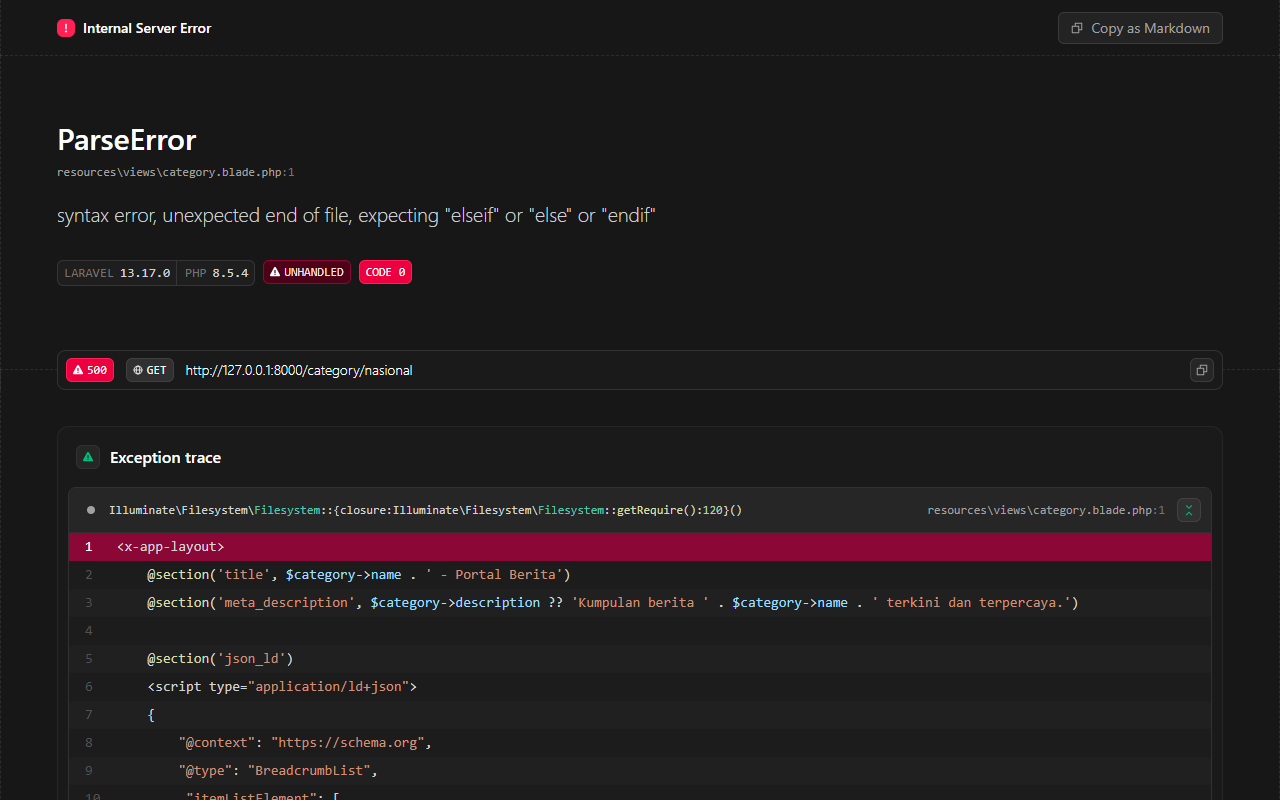
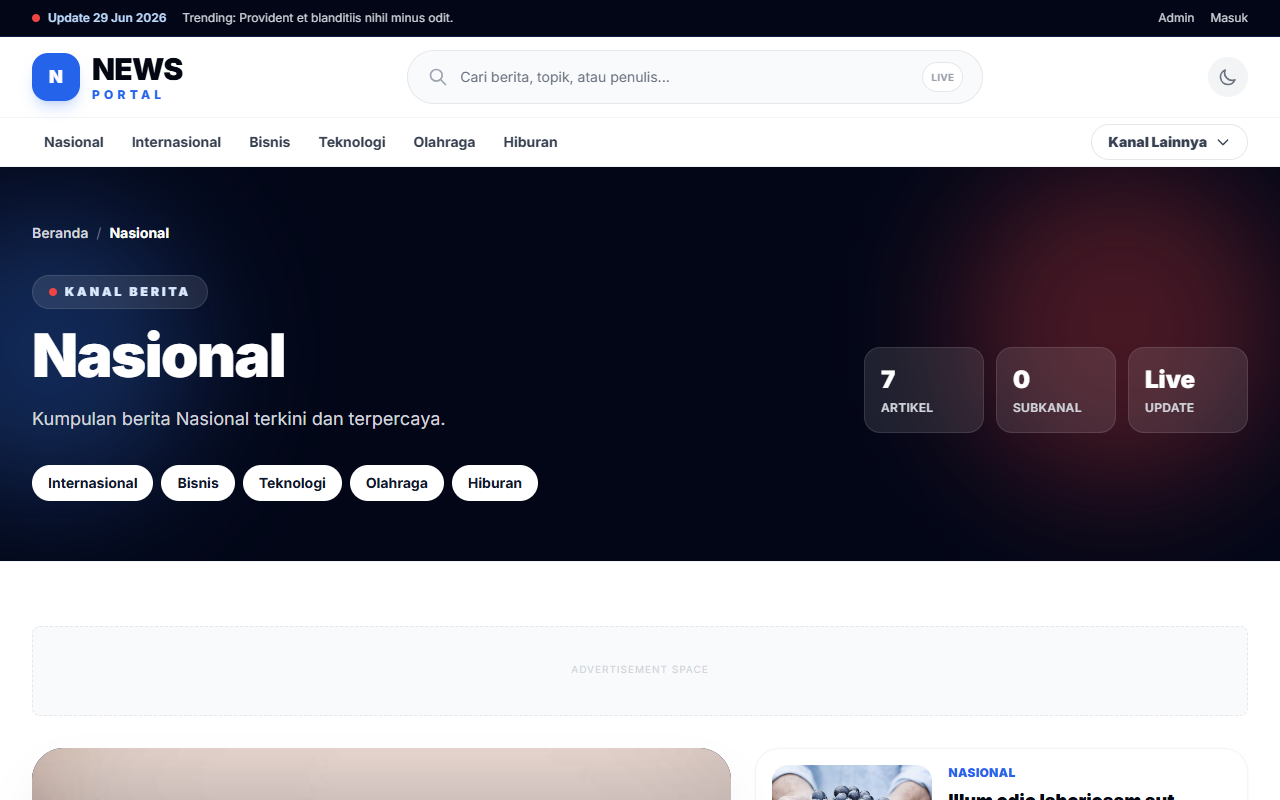
fix: resolve category page parse error and customize login/register views

diff --git a/resources/views/auth/register.blade.php b/resources/views/auth/register.blade.php
@@ -1,52 +1,89 @@
 <x-guest-layout>
-    <form method="POST" action="{{ route('register') }}">
+    <!-- Header -->
+    <div class="mb-8 text-center sm:text-left">
+        <h2 class="text-3xl font-black text-gray-900 dark:text-white tracking-tight">Daftar Akun</h2>
+        <p class="text-sm text-gray-500 dark:text-gray-400 mt-2">Buat akun Anda untuk mulai menyimpan artikel, berdiskusi, dan menerima newsletter terbaru.</p>
+    </div>
+
+    <form method="POST" action="{{ route('register') }}" class="space-y-5">
         @csrf
 
         <!-- Name -->
         <div>
-            <x-input-label for="name" :value="__('Name')" />
-            <x-text-input id="name" class="block mt-1 w-full" type="text" name="name" :value="old('name')" required autofocus autocomplete="name" />
-            <x-input-error :messages="$errors->get('name')" class="mt-2" />
+            <label for="name" class="block text-xs font-bold uppercase tracking-wider text-gray-700 dark:text-gray-300">Nama Lengkap</label>
+            <div class="mt-2 relative rounded-xl shadow-sm">
+                <input id="name" 
+                       class="block w-full px-4 py-3 bg-gray-50 dark:bg-gray-800 border border-gray-200 dark:border-gray-700 rounded-xl text-sm focus:outline-none focus:ring-2 focus:ring-blue-500 focus:border-transparent dark:text-white transition-all" 
+                       type="text" 
+                       name="name" 
+                       :value="old('name')" 
+                       required 
+                       autofocus 
+                       placeholder="Nama Lengkap Anda"
+                       autocomplete="name" />
+            </div>
+            <x-input-error :messages="$errors->get('name')" class="mt-2 text-xs text-red-500" />
         </div>
 
         <!-- Email Address -->
-        <div class="mt-4">
-            <x-input-label for="email" :value="__('Email')" />
-            <x-text-input id="email" class="block mt-1 w-full" type="email" name="email" :value="old('email')" required autocomplete="username" />
-            <x-input-error :messages="$errors->get('email')" class="mt-2" />
+        <div>
+            <label for="email" class="block text-xs font-bold uppercase tracking-wider text-gray-700 dark:text-gray-300">Alamat Email</label>
+            <div class="mt-2 relative rounded-xl shadow-sm">
+                <input id="email" 
+                       class="block w-full px-4 py-3 bg-gray-50 dark:bg-gray-800 border border-gray-200 dark:border-gray-700 rounded-xl text-sm focus:outline-none focus:ring-2 focus:ring-blue-500 focus:border-transparent dark:text-white transition-all" 
+                       type="email" 
+                       name="email" 
+                       :value="old('email')" 
+                       required 
+                       placeholder="nama@email.com"
+                       autocomplete="username" />
+            </div>
+            <x-input-error :messages="$errors->get('email')" class="mt-2 text-xs text-red-500" />
         </div>
 
         <!-- Password -->
-        <div class="mt-4">
-            <x-input-label for="password" :value="__('Password')" />
-
-            <x-text-input id="password" class="block mt-1 w-full"
-                            type="password"
-                            name="password"
-                            required autocomplete="new-password" />
-
-            <x-input-error :messages="$errors->get('password')" class="mt-2" />
+        <div>
+            <label for="password" class="block text-xs font-bold uppercase tracking-wider text-gray-700 dark:text-gray-300">Kata Sandi</label>
+            <div class="mt-2 relative rounded-xl shadow-sm">
+                <input id="password" 
+                       class="block w-full px-4 py-3 bg-gray-50 dark:bg-gray-800 border border-gray-200 dark:border-gray-700 rounded-xl text-sm focus:outline-none focus:ring-2 focus:ring-blue-500 focus:border-transparent dark:text-white transition-all"
+                       type="password"
+                       name="password"
+                       required 
+                       placeholder="Minimal 8 karakter"
+                       autocomplete="new-password" />
+            </div>
+            <x-input-error :messages="$errors->get('password')" class="mt-2 text-xs text-red-500" />
         </div>
 
         <!-- Confirm Password -->
-        <div class="mt-4">
-            <x-input-label for="password_confirmation" :value="__('Confirm Password')" />
-
-            <x-text-input id="password_confirmation" class="block mt-1 w-full"
-                            type="password"
-                            name="password_confirmation" required autocomplete="new-password" />
-
-            <x-input-error :messages="$errors->get('password_confirmation')" class="mt-2" />
+        <div>
+            <label for="password_confirmation" class="block text-xs font-bold uppercase tracking-wider text-gray-700 dark:text-gray-300">Konfirmasi Kata Sandi</label>
+            <div class="mt-2 relative rounded-xl shadow-sm">
+                <input id="password_confirmation" 
+                       class="block w-full px-4 py-3 bg-gray-50 dark:bg-gray-800 border border-gray-200 dark:border-gray-700 rounded-xl text-sm focus:outline-none focus:ring-2 focus:ring-blue-500 focus:border-transparent dark:text-white transition-all"
+                       type="password"
+                       name="password_confirmation" 
+                       required 
+                       placeholder="Ulangi kata sandi"
+                       autocomplete="new-password" />
+            </div>
+            <x-input-error :messages="$errors->get('password_confirmation')" class="mt-2 text-xs text-red-500" />
         </div>
 
-        <div class="flex items-center justify-end mt-4">
-            <a class="underline text-sm text-gray-600 hover:text-gray-900 rounded-md focus:outline-none focus:ring-2 focus:ring-offset-2 focus:ring-indigo-500" href="{{ route('login') }}">
-                {{ __('Already registered?') }}
-            </a>
+        <!-- Submit Button -->
+        <div>
+            <button type="submit" class="w-full flex justify-center py-3.5 px-4 border border-transparent rounded-xl shadow-lg text-sm font-bold text-white bg-blue-600 hover:bg-blue-700 focus:outline-none focus:ring-2 focus:ring-offset-2 focus:ring-blue-500 transition-all duration-150 hover:scale-[1.01] active:scale-[0.99] shadow-blue-500/25">
+                Daftar Sekarang
+            </button>
+        </div>
 
-            <x-primary-button class="ms-4">
-                {{ __('Register') }}
-            </x-primary-button>
+        <!-- Login Link -->
+        <div class="pt-4 border-t border-gray-100 dark:border-gray-800 text-center text-xs text-gray-500 dark:text-gray-400">
+            Sudah memiliki akun? 
+            <a href="{{ route('login') }}" class="font-bold text-blue-600 hover:text-blue-700 dark:text-blue-400 dark:hover:text-blue-300 transition-colors">
+                Masuk Di Sini
+            </a>
         </div>
     </form>
 </x-guest-layout>

diff --git a/resources/views/auth/login.blade.php b/resources/views/auth/login.blade.php
@@ -1,47 +1,76 @@
 <x-guest-layout>
-    <!-- Session Status -->
-    <x-auth-session-status class="mb-4" :status="session('status')" />
+    <!-- Header -->
+    <div class="mb-8 text-center sm:text-left">
+        <h2 class="text-3xl font-black text-gray-900 dark:text-white tracking-tight">Masuk Akun</h2>
+        <p class="text-sm text-gray-500 dark:text-gray-400 mt-2">Selamat datang kembali! Silakan masuk untuk melanjutkan membaca dan berpartisipasi.</p>
+    </div>
 
-    <form method="POST" action="{{ route('login') }}">
+    <!-- Session Status -->
+    <x-auth-session-status class="mb-6" :status="session('status')" />
+
+    <form method="POST" action="{{ route('login') }}" class="space-y-5">
         @csrf
 
         <!-- Email Address -->
         <div>
-            <x-input-label for="email" :value="__('Email')" />
-            <x-text-input id="email" class="block mt-1 w-full" type="email" name="email" :value="old('email')" required autofocus autocomplete="username" />
-            <x-input-error :messages="$errors->get('email')" class="mt-2" />
+            <label for="email" class="block text-xs font-bold uppercase tracking-wider text-gray-700 dark:text-gray-300">Alamat Email</label>
+            <div class="mt-2 relative rounded-xl shadow-sm">
+                <input id="email" 
+                       class="block w-full px-4 py-3 bg-gray-50 dark:bg-gray-800 border border-gray-200 dark:border-gray-700 rounded-xl text-sm focus:outline-none focus:ring-2 focus:ring-blue-500 focus:border-transparent dark:text-white transition-all" 
+                       type="email" 
+                       name="email" 
+                       :value="old('email')" 
+                       required 
+                       autofocus 
+                       placeholder="nama@email.com"
+                       autocomplete="username" />
+            </div>
+            <x-input-error :messages="$errors->get('email')" class="mt-2 text-xs text-red-500" />
         </div>
 
         <!-- Password -->
-        <div class="mt-4">
-            <x-input-label for="password" :value="__('Password')" />
-
-            <x-text-input id="password" class="block mt-1 w-full"
-                            type="password"
-                            name="password"
-                            required autocomplete="current-password" />
-
-            <x-input-error :messages="$errors->get('password')" class="mt-2" />
+        <div>
+            <div class="flex justify-between items-center">
+                <label for="password" class="block text-xs font-bold uppercase tracking-wider text-gray-700 dark:text-gray-300">Kata Sandi</label>
+                @if (Route::has('password.request'))
+                    <a class="text-xs font-semibold text-blue-600 hover:text-blue-700 dark:text-blue-400 dark:hover:text-blue-300 transition-colors" href="{{ route('password.request') }}">
+                        Lupa sandi?
+                    </a>
+                @endif
+            </div>
+            <div class="mt-2 relative rounded-xl shadow-sm">
+                <input id="password" 
+                       class="block w-full px-4 py-3 bg-gray-50 dark:bg-gray-800 border border-gray-200 dark:border-gray-700 rounded-xl text-sm focus:outline-none focus:ring-2 focus:ring-blue-500 focus:border-transparent dark:text-white transition-all"
+                       type="password"
+                       name="password"
+                       required 
+                       placeholder="••••••••"
+                       autocomplete="current-password" />
+            </div>
+            <x-input-error :messages="$errors->get('password')" class="mt-2 text-xs text-red-500" />
         </div>
 
         <!-- Remember Me -->
-        <div class="block mt-4">
-            <label for="remember_me" class="inline-flex items-center">
-                <input id="remember_me" type="checkbox" class="rounded border-gray-300 text-indigo-600 shadow-sm focus:ring-indigo-500" name="remember">
-                <span class="ms-2 text-sm text-gray-600">{{ __('Remember me') }}</span>
+        <div class="flex items-center justify-between">
+            <label for="remember_me" class="inline-flex items-center cursor-pointer">
+                <input id="remember_me" type="checkbox" class="rounded-lg border-gray-200 dark:border-gray-700 text-blue-600 shadow-sm focus:ring-blue-500 focus:ring-offset-0 bg-gray-50 dark:bg-gray-800" name="remember">
+                <span class="ms-2 text-xs font-semibold text-gray-600 dark:text-gray-400">Ingat perangkat ini</span>
             </label>
         </div>
 
-        <div class="flex items-center justify-end mt-4">
-            @if (Route::has('password.request'))
-                <a class="underline text-sm text-gray-600 hover:text-gray-900 rounded-md focus:outline-none focus:ring-2 focus:ring-offset-2 focus:ring-indigo-500" href="{{ route('password.request') }}">
-                    {{ __('Forgot your password?') }}
-                </a>
-            @endif
+        <!-- Submit Button -->
+        <div>
+            <button type="submit" class="w-full flex justify-center py-3.5 px-4 border border-transparent rounded-xl shadow-lg text-sm font-bold text-white bg-blue-600 hover:bg-blue-700 focus:outline-none focus:ring-2 focus:ring-offset-2 focus:ring-blue-500 transition-all duration-150 hover:scale-[1.01] active:scale-[0.99] shadow-blue-500/25">
+                Masuk Sekarang
+            </button>
+        </div>
 
-            <x-primary-button class="ms-3">
-                {{ __('Log in') }}
-            </x-primary-button>
+        <!-- Register Link -->
+        <div class="pt-4 border-t border-gray-100 dark:border-gray-800 text-center text-xs text-gray-500 dark:text-gray-400">
+            Belum punya akun? 
+            <a href="{{ route('register') }}" class="font-bold text-blue-600 hover:text-blue-700 dark:text-blue-400 dark:hover:text-blue-300 transition-colors">
+                Daftar Baru
+            </a>
         </div>
     </form>
 </x-guest-layout>

diff --git a/resources/views/layouts/guest.blade.php b/resources/views/layouts/guest.blade.php
@@ -1,29 +1,77 @@
 <!DOCTYPE html>
-<html lang="{{ str_replace('_', '-', app()->getLocale()) }}">
+<html lang="{{ str_replace('_', '-', app()->getLocale()) }}"
+      x-data="{ darkMode: localStorage.getItem('theme') === 'dark' }"
+      x-init="$watch('darkMode', val => localStorage.setItem('theme', val ? 'dark' : 'light'))"
+      x-bind:class="{ 'dark': darkMode }">
     <head>
         <meta charset="utf-8">
         <meta name="viewport" content="width=device-width, initial-scale=1">
         <meta name="csrf-token" content="{{ csrf_token() }}">
 
-        <title>{{ config('app.name', 'Laravel') }}</title>
+        <title>{{ config('app.name', 'Portal Berita') }}</title>
 
         <!-- Fonts -->
         <link rel="preconnect" href="https://fonts.bunny.net">
-        <link href="https://fonts.bunny.net/css?family=figtree:400,500,600&display=swap" rel="stylesheet" />
+        <link href="https://fonts.bunny.net/css?family=inter:400,500,600,700,800,900&display=swap" rel="stylesheet" />
 
         <!-- Scripts -->
         @vite(['resources/css/app.css', 'resources/js/app.js'])
     </head>
-    <body class="font-sans text-gray-900 antialiased">
-        <div class="min-h-screen flex flex-col sm:justify-center items-center pt-6 sm:pt-0 bg-gray-100">
-            <div>
-                <a href="/">
-                    <x-application-logo class="w-20 h-20 fill-current text-gray-500" />
-                </a>
+    <body class="font-sans text-gray-950 antialiased bg-gray-50 dark:bg-gray-950 dark:text-gray-100 transition-colors duration-300">
+        <div class="min-h-screen grid lg:grid-cols-12">
+            <!-- Left Side: Cover (Hidden on mobile) -->
+            <div class="hidden lg:flex lg:col-span-5 relative overflow-hidden bg-slate-950 text-white flex-col justify-between p-12">
+                <!-- Background ambient glow effects -->
+                <div class="absolute inset-0 opacity-40">
+                    <div class="absolute -left-12 top-10 h-96 w-96 rounded-full bg-blue-600 blur-[100px]"></div>
+                    <div class="absolute -right-12 bottom-10 h-96 w-96 rounded-full bg-red-600 blur-[100px]"></div>
+                </div>
+                
+                <!-- Brand Logo -->
+                <div class="relative z-10">
+                    <a href="/" class="text-2xl font-black tracking-tight text-white flex items-center gap-2">
+                        <span class="bg-blue-600 text-white px-3 py-1.5 rounded-xl text-lg font-black shadow-lg shadow-blue-500/30">N</span>
+                        <span>{{ config('app.name', 'Portal Berita') }}</span>
+                    </a>
+                </div>
+
+                <!-- Core Message -->
+                <div class="relative z-10 my-auto max-w-md">
+                    <h2 class="text-4xl font-black leading-tight tracking-tight">Dapatkan Informasi Terpercaya & Tercepat</h2>
+                    <p class="mt-5 text-gray-400 leading-relaxed text-base">
+                        Masuk untuk menyimpan artikel favorit Anda, berpartisipasi dalam jajak pendapat, serta berdiskusi dengan pembaca lainnya melalui kolom komentar.
+                    </p>
+                </div>
+
+                <!-- Footer Copyright -->
+                <div class="relative z-10 text-xs text-gray-500">
+                    &copy; {{ date('Y') }} {{ config('app.name', 'Portal Berita') }}. Hak Cipta Dilindungi.
+                </div>
             </div>
 
-            <div class="w-full sm:max-w-md mt-6 px-6 py-4 bg-white shadow-md overflow-hidden sm:rounded-lg">
-                {{ $slot }}
+            <!-- Right Side: Form Content -->
+            <div class="lg:col-span-7 flex flex-col justify-center items-center p-6 sm:p-12 bg-gray-50 dark:bg-gray-950 relative">
+                <!-- Theme Toggle Button in Auth Page -->
+                <button @click="darkMode = !darkMode" 
+                        class="absolute top-6 right-6 p-3 rounded-full bg-white dark:bg-gray-900 border border-gray-100 dark:border-gray-800 text-gray-500 dark:text-gray-400 hover:bg-gray-50 dark:hover:bg-gray-800 transition-colors shadow-sm focus:outline-none">
+                    <svg x-show="!darkMode" class="w-5 h-5" fill="none" viewBox="0 0 24 24" stroke="currentColor"><path stroke-linecap="round" stroke-linejoin="round" stroke-width="2" d="M20.354 15.354A9 9 0 018.646 3.646 9.003 9.003 0 0012 21a9.003 9.003 0 008.354-5.646z" /></svg>
+                    <svg x-show="darkMode" x-cloak class="w-5 h-5" fill="none" viewBox="0 0 24 24" stroke="currentColor"><path stroke-linecap="round" stroke-linejoin="round" stroke-width="2" d="M12 3v1m0 16v1m9-9h-1M4 12H3m15.364-6.364l-.707.707M6.343 17.657l-.707.707m0-12.728l.707.707m12.728 12.728l.707-.707M12 8a4 4 0 100 8 4 4 0 000-8z" /></svg>
+                </button>
+
+                <div class="w-full max-w-md">
+                    <!-- Brand Logo for Mobile View -->
+                    <div class="lg:hidden mb-8 text-center">
+                        <a href="/" class="text-3xl font-black tracking-tight text-slate-950 dark:text-white inline-flex items-center gap-2">
+                            <span class="bg-blue-600 text-white px-3 py-1.5 rounded-xl text-lg font-black shadow-lg shadow-blue-500/30">N</span>
+                            <span>{{ config('app.name', 'Portal Berita') }}</span>
+                        </a>
+                    </div>
+
+                    <!-- Main Auth Card -->
+                    <div class="bg-white dark:bg-gray-900 border border-gray-100 dark:border-gray-800 rounded-3xl shadow-xl shadow-gray-200/50 dark:shadow-none p-8 sm:p-10 transition-colors">
+                        {{ $slot }}
+                    </div>
+                </div>
             </div>
         </div>
     </body>

diff --git a/resources/views/category.blade.php b/resources/views/category.blade.php
@@ -5,25 +5,25 @@
     @section('json_ld')
     <script type="application/ld+json">
     {
-        "@context": "https://schema.org",
-        "@type": "BreadcrumbList",
+        "@@context": "https://schema.org",
+        "@@type": "BreadcrumbList",
         "itemListElement": [
             {
-                "@type": "ListItem",
+                "@@type": "ListItem",
                 "position": 1,
                 "name": "Beranda",
                 "item": "{{ route('home') }}"
             },
             @if($category->parent)
             {
-                "@type": "ListItem",
+                "@@type": "ListItem",
                 "position": 2,
                 "name": "{{ e($category->parent->name) }}",
                 "item": "{{ route('category.show', $category->parent->slug) }}"
             },
             @endif
             {
-                "@type": "ListItem",
+                "@@type": "ListItem",
                 "position": {{ $category->parent ? 3 : 2 }},
                 "name": "{{ e($category->name) }}",
                 "item": "{{ request()->url() }}"
